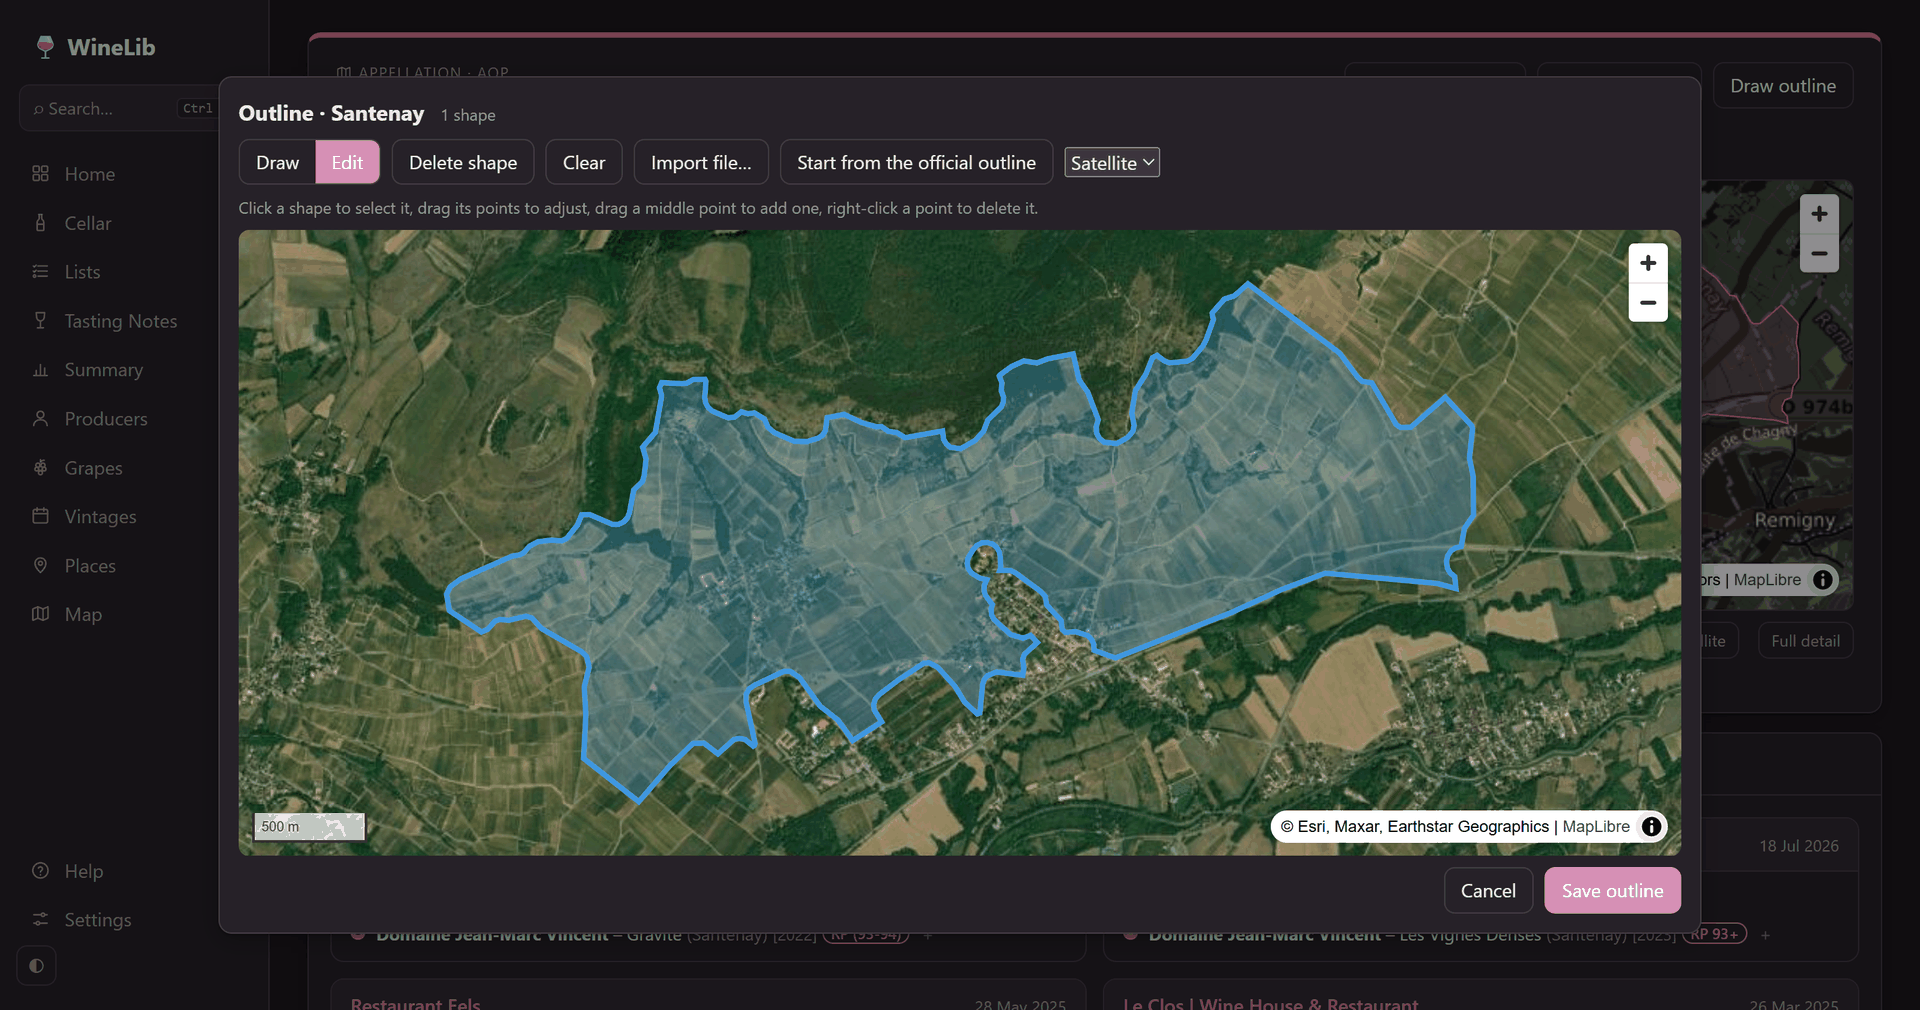
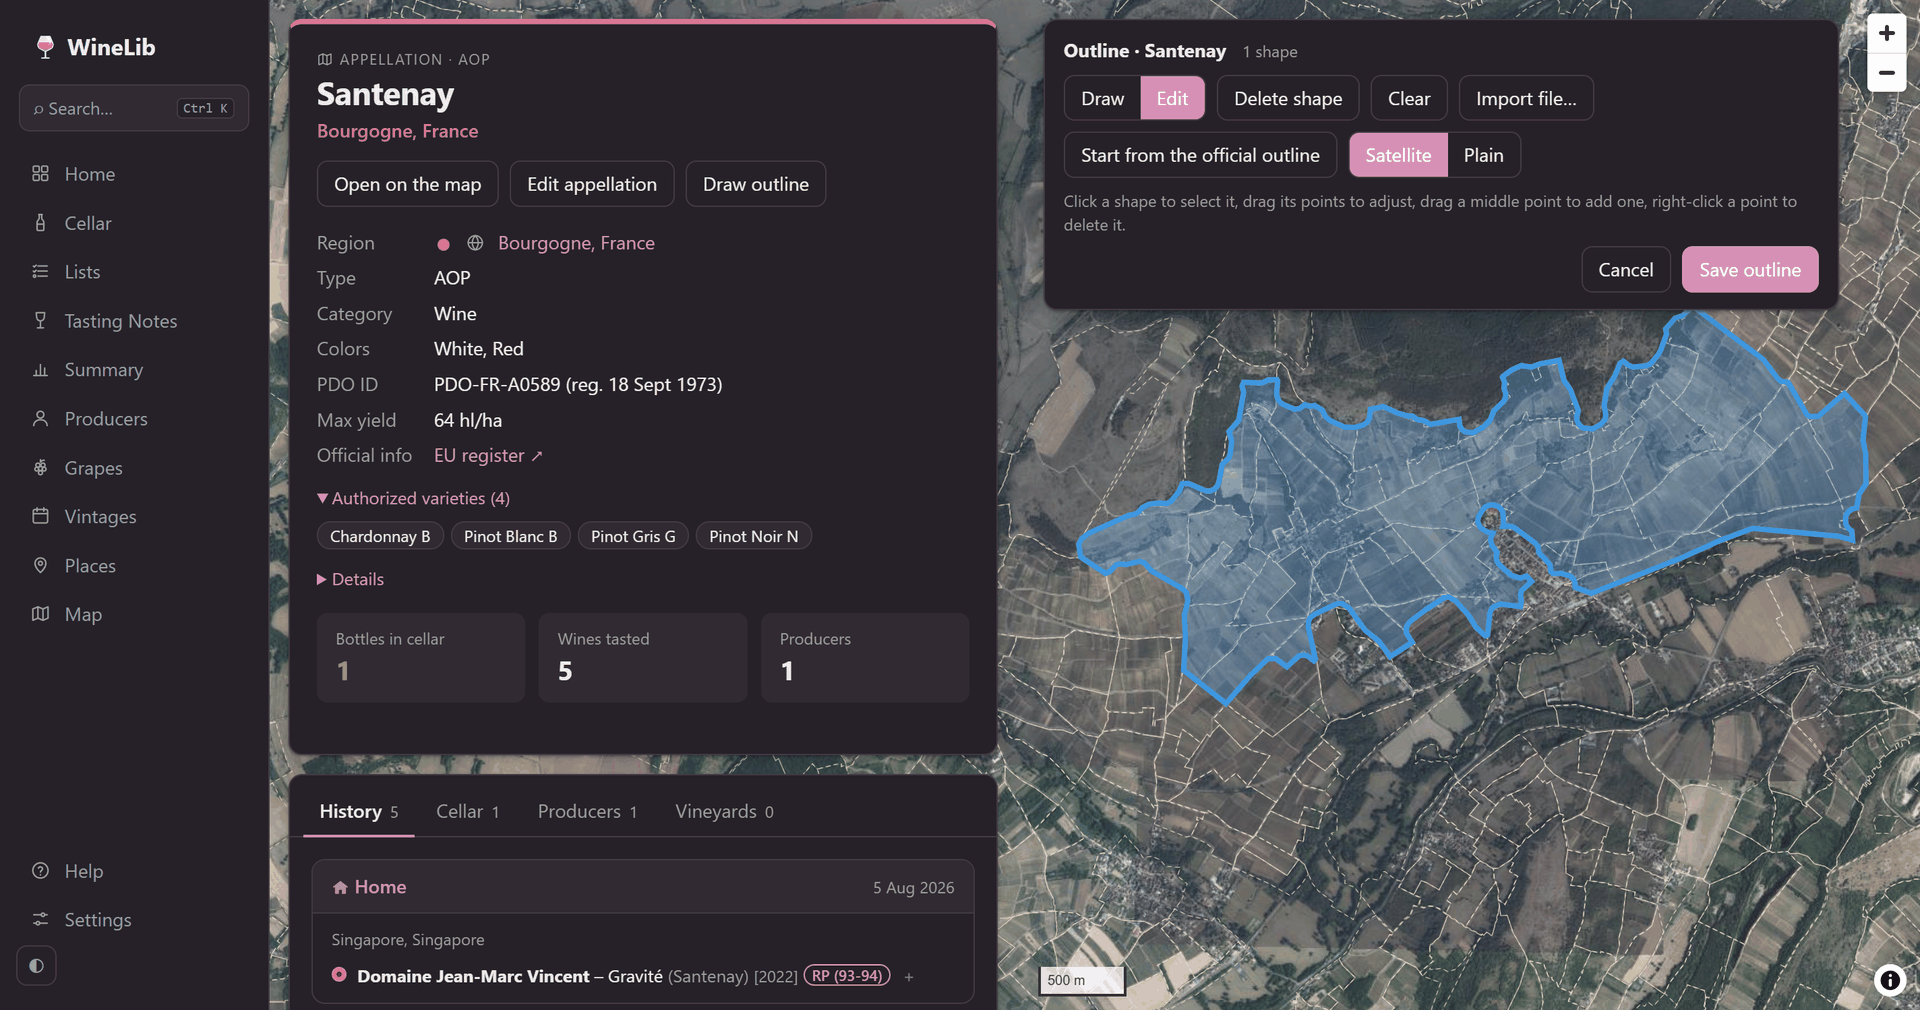
v0.3.5: the changelog, the demo clip and the screenshots of the maps and lists

diff --git a/CHANGELOG.md b/CHANGELOG.md
@@ -1,7 +1,13 @@
 # Changelog
 
-## Unreleased
+## v0.3.5
 
+- **The lists page**: the cards stack in columns, a short one no longer leaving a blank beside a tall one; the lists
+  sorted by completion, name, number of entries or bottles in the cellar (remembered).
+- A wine with a vineyard outline opens its map on the vineyard (with its neighbours around it), not the whole
+  appellation; a small vineyard is never framed too close.
+- Satellite asks for one photo per place: IGN's in France, Esri's elsewhere, both only at a border (it used to load
+  Esri's under every one of IGN's).
 - **Draw on the map you're looking at**: Draw outline (an appellation's, a vineyard's) and Draw vineyard (from a
   wine) work on the page's own map, made full size where you were, on the photos, the tools over it; the
   lieux-dits' outlines and names to draw along. The separate drawing dialog and new-vineyard page are gone.
